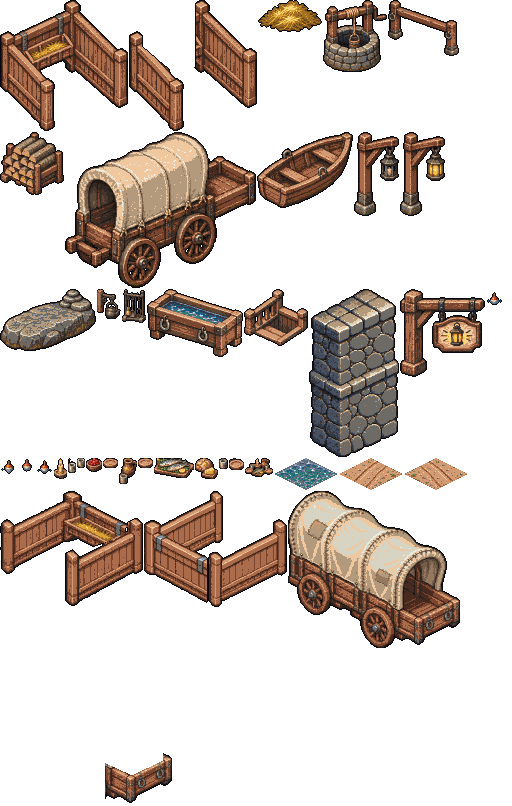
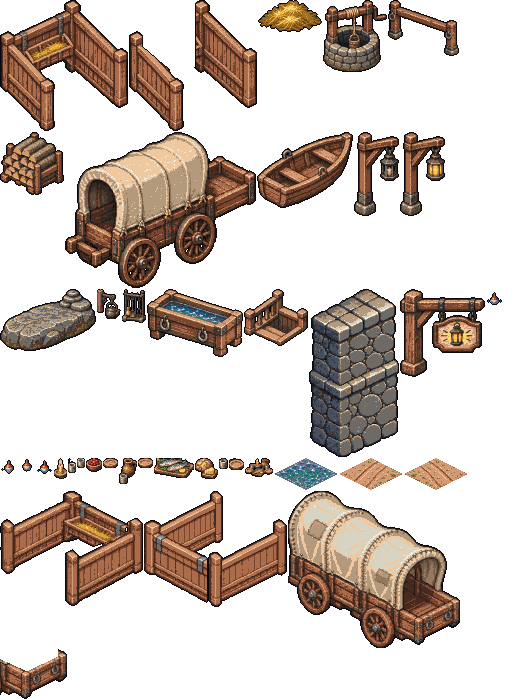
innprops_p2 re-cut by its own tool: the wagon's rim trimmed to its pixels (67 x 50, the same anchor); the stamps after the rebase
The atlas committed in 9f7ed4a0 was cut before the rim's trim was added to
tools/innprops-sheet.py rim(); every other piece's box and pixels unchanged.
deep16/index.html's js/eyes.js stamp for the merged eyes rows.

diff --git a/deep16/index.html b/deep16/index.html
@@ -77,7 +77,7 @@
 <script src="js/art.js?v=e1ce4cf012"></script>
 <script src="data/cavern.js?v=647c1a184a"></script>
 <script src="data/maps.js?v=bef56a5de9"></script>
-<script src="data/sprites.js?v=a1f2b07d9c"></script>
+<script src="data/sprites.js?v=6e04e6c527"></script>
 <script src="js/sprites.js?v=768547a3be"></script>
 <script src="js/save.js?v=f0ad7180ca"></script>
 <script src="data/spells.js?v=ae0037fb81"></script>
@@ -172,7 +172,7 @@
 <script src="js/skyshow.js?v=7151daab7a"></script>
 <script src="js/barleyshow.js?v=186123cdd5"></script>
 <script src="js/rulesshow.js?v=00695b8aaa"></script>
-<script src="../js/eyes.js?v=1b9b0f8caf"></script>
+<script src="../js/eyes.js?v=adad6ff24e"></script>
 <script src="js/onegallery.js?v=198c5b983d"></script>
 <script src="js/situations16.js?v=f04fedccd1"></script>
 <script src="js/main.js?v=1ac730476f"></script>

diff --git a/deep16/data/sprites.js b/deep16/data/sprites.js
@@ -7498,7 +7498,7 @@
 },
 "innprops_p2": {
 "_note": "the Halfway Inn's barn, yard and shore, and the rest of the house (tools/innprops-sheet.py, art-wanted section 36 pages 5, 6, 9A and 9B, 2026-11-05): as innprops_p1 -- each piece a box x,y,w,h and its anchor ax,ay, the back corner of its footprint; shore_float four frames on one waterline (1-3 the bob, 4 still). js/innprops.js lays them.",
-"image": "art/innprops_p2.png?v=4a35db1fbc",
+"image": "art/innprops_p2.png?v=749dc76bd0",
 "fw": 64,
 "fh": 64,
 "ax": 32,
@@ -7621,7 +7621,7 @@
 "barn_stallN": "0,491,143,115,72,50",
 "barn_stallS": "144,491,143,116,72,51",
 "yard_wagonT": "288,491,172,157,51,80",
-"yard_wagonRim": "0,649,172,157,51,80"
+"yard_wagonRim": "0,649,67,50,-54,-24"
 },
 "spread": [
 [
